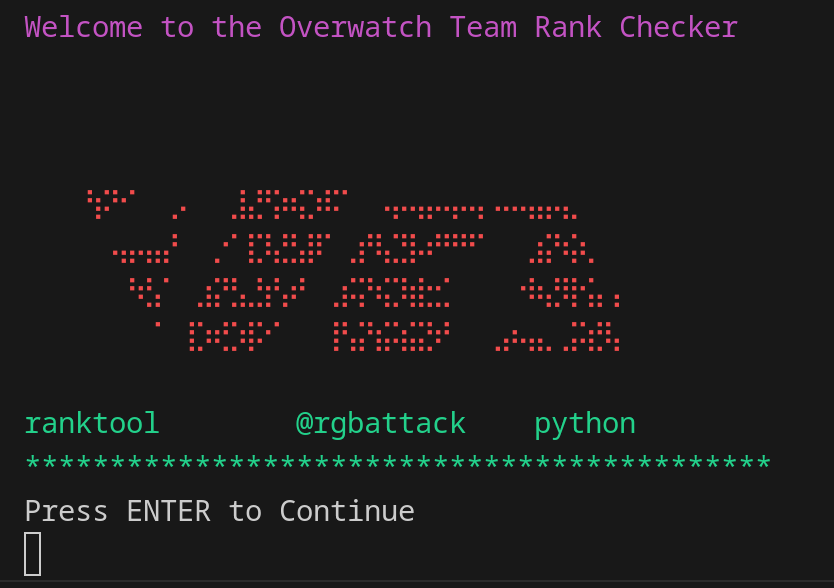
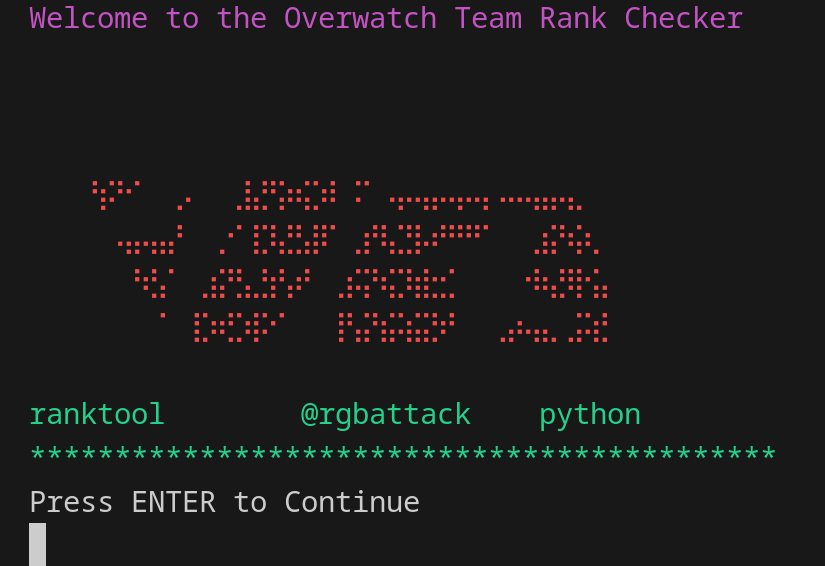
Beauty

diff --git a/tool.py b/tool.py
@@ -41,10 +41,10 @@ rankmap={
 #ASCII ART
 my_string = CRED+r"""
                             
-   ⠘⡮⠓⠁ ⢀⠄  ⣸⣜⢫⠶⣍⠾⠍  ⢤⠤⣤⠤⡤⢤⠠⠤⢤⣤⢤⡀   
+   ⠘⡮⠓⠁ ⢀⠄  ⣸⣜⢫⠶⣍⠾ ⠍ ⢤⠤⣤⠤⡤⢤⠠⠤⢤⣤⢤⡀   
      ⢤⡤⣤⡜  ⡐⠁⣏⢧⣛⣼⠏ ⣰⠻⣌⣻⠴⠛⠛⠋  ⢀⣮⠳⡵⡀      
-      ⠳⣣⠁ ⣰⡝⣣⣘⡞⡴⠃ ⣰⢭⠳⣍⢷⣗⣊    ⠺⢦⡻⡗⣥⢠      
-       ⠈ ⢸⡱⢞⡱⡯⠊   ⡟⣬⢳⡭⣮⣝⠞  ⢀⡴⢤⣄⢀⡭⣞⢧
+      ⠳⣣⠁ ⣰⡝⣣⣘⡞⡴⠃ ⣰⢭⠳⣍⢷⣗⣊    ⠺⢦⡻⡗⣥      
+       ⠈ ⢸⡱⢞⡱⡯⠊   ⡟⣬⢳⡭⣮⣝⠞  ⢀⡴⢤⣄⢀⡭⣞
 """+CGREEN+"""
 ranktool        @rgbattack    python
 ********************************************"""+CEND+'\n'+"Press ENTER to Continue"
